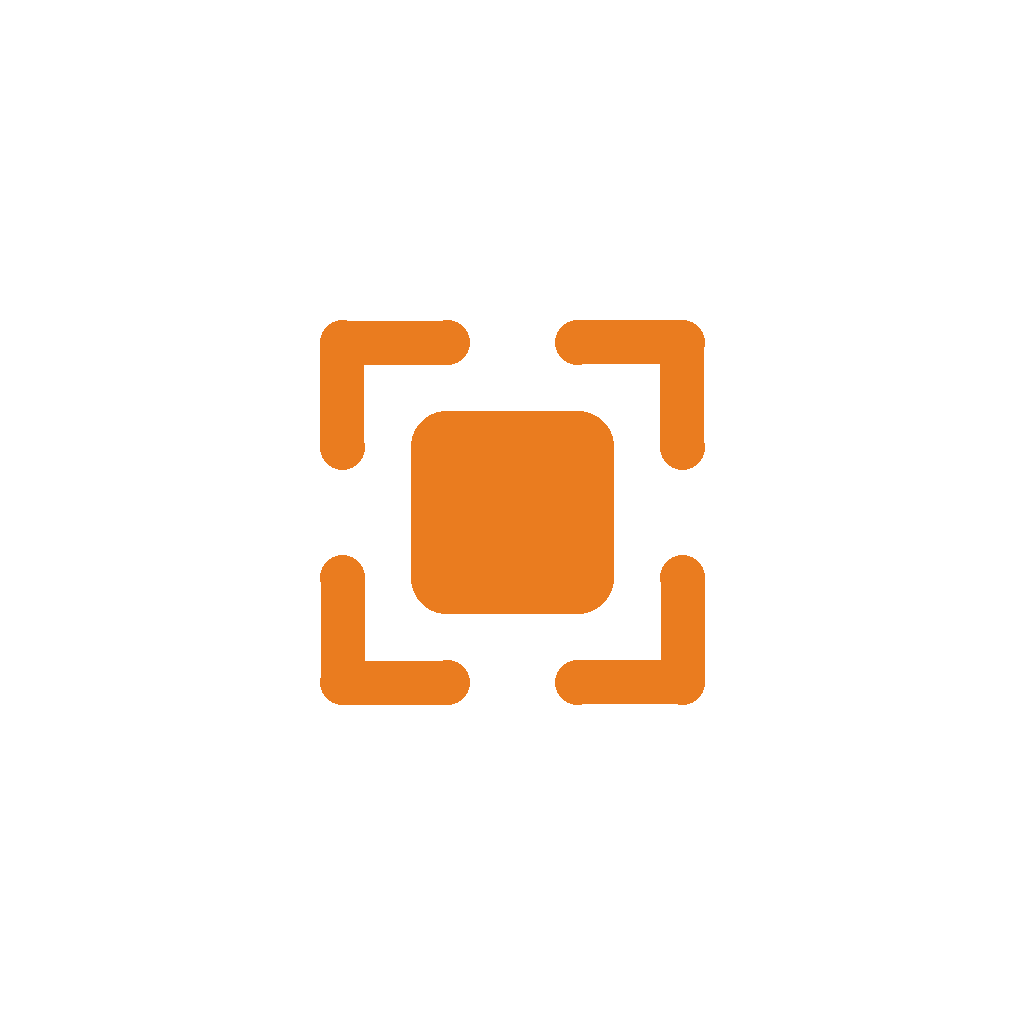
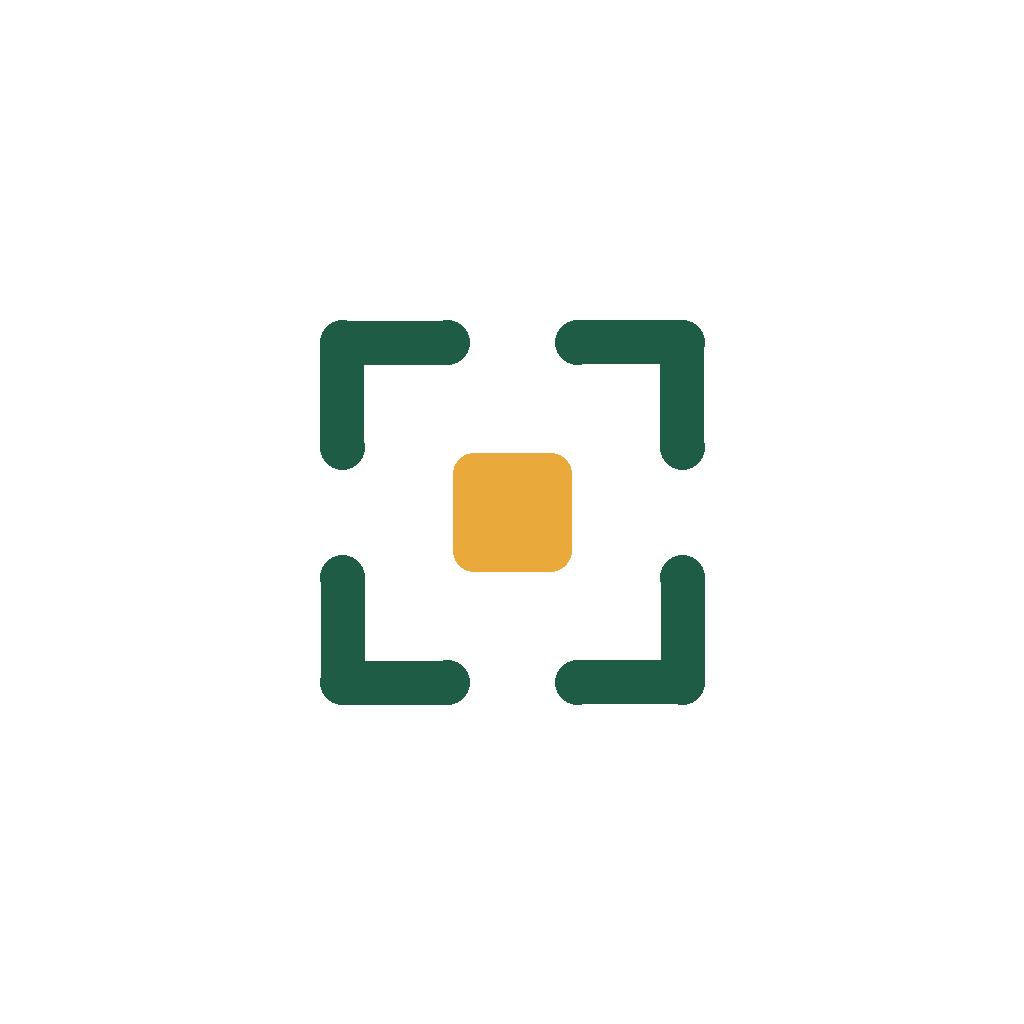
모바일: 앱 아이콘·스플래시를 새 로고(초록 모서리 + 노란 가운데)로 교체
design/generate_icon_assets.py를 새 색상과 Bricolage Grotesque 워드마크로
바꾸고(이제 macOS 전용 폰트 없이 어느 OS에서나 실행 가능) 에셋을 다시 생성.
app.json의 스플래시/적응형 아이콘 배경과 알림 색도 새 팔레트로 변경.
※ 아이콘·스플래시·알림 색은 네이티브 설정이라 다음 스토어 빌드부터 적용됨.

Claude-Session: https://claude.ai/code/session_011uiujypeg2eec9cwfwwvt9

Changed region(s): [[0.3125, 0.3125, 0.6875, 0.6875]]

diff --git a/mobile/design/generate_icon_assets.py b/mobile/design/generate_icon_assets.py
@@ -1,24 +1,32 @@
 #!/usr/bin/env python3
-"""Generates the Menuko Staff app icon + splash assets: option 1 (scan
-frame mark) + option A (cream background + scan mark + wordmark)."""
+"""Generates the Menuko Staff app icon + splash assets: the scan-frame mark
+on a sage background with the wordmark. 2026-09 "Market Green" palette
+(green corners, saffron center — same as the web BrandMark), wordmark in
+Bricolage Grotesque (bundled via @expo-google-fonts, so this runs on any OS:
+`cd mobile && python3 design/generate_icon_assets.py`)."""
 
 from PIL import Image, ImageDraw, ImageFont
 
-ORANGE = (234, 124, 31, 255)      # #ea7c1f
-CREAM = (255, 250, 243, 255)      # #fffaf3
-INK = (35, 31, 26, 255)           # #231f1a
-MUTED = (138, 124, 104, 255)      # #8a7c68
+GREEN = (31, 92, 69, 255)         # #1F5C45
+SAFFRON = (234, 169, 59, 255)     # #EAA93B
+CREAM = (242, 244, 238, 255)      # #F2F4EE (sage background, name kept)
+INK = (21, 38, 30, 255)           # #15261E
+MUTED = (85, 100, 91, 255)        # #55645B
 WHITE = (255, 255, 255, 255)
 TRANSPARENT = (0, 0, 0, 0)
 
-FONT_PATH = "/System/Library/Fonts/Avenir Next.ttc"
+FONT_DIR = "node_modules/@expo-google-fonts/bricolage-grotesque"
+FONT_FILES = {
+    "heavy": f"{FONT_DIR}/800ExtraBold/BricolageGrotesque_800ExtraBold.ttf",
+    "bold": f"{FONT_DIR}/700Bold/BricolageGrotesque_700Bold.ttf",
+}
 
 
-def font(index, size):
-    return ImageFont.truetype(FONT_PATH, size, index=index)
+def font(weight, size):
+    return ImageFont.truetype(FONT_FILES[weight], size)
 
 
-def draw_scan_frame(draw, cx, cy, half, stroke, color, center_dot=True):
+def draw_scan_frame(draw, cx, cy, half, stroke, color, center_dot=True, center_color=None):
     """Draws the 4-corner viewfinder bracket mark, centered at (cx, cy),
     with each bracket arm spanning `half` px and a `half*0.65` leg length."""
     leg = int(half * 0.62)
@@ -39,9 +47,9 @@ def draw_scan_frame(draw, cx, cy, half, stroke, color, center_dot=True):
             draw.ellipse([p[0] - r, p[1] - r, p[0] + r, p[1] + r], fill=color)
 
     if center_dot:
-        d = int(stroke * 2.3)
+        d = int(stroke * 1.35)  # matches the web BrandMark proportions
         draw.rounded_rectangle(
-            [cx - d, cy - d, cx + d, cy + d], radius=d * 0.35, fill=color
+            [cx - d, cy - d, cx + d, cy + d], radius=d * 0.35, fill=center_color or color
         )
 
 
@@ -49,7 +57,7 @@ def make_icon():
     size = 1024
     im = Image.new("RGB", (size, size), CREAM[:3])
     draw = ImageDraw.Draw(im)
-    draw_scan_frame(draw, size // 2, size // 2, half=210, stroke=52, color=ORANGE[:3])
+    draw_scan_frame(draw, size // 2, size // 2, half=210, stroke=52, color=GREEN[:3], center_color=SAFFRON[:3])
     im.save("assets/icon.png")
     print("wrote assets/icon.png")
 
@@ -60,7 +68,7 @@ def make_android_foreground():
     draw = ImageDraw.Draw(im)
     # Android adaptive icons get masked to a centered ~66% safe zone —
     # keep the mark smaller/more centered than the plain icon.
-    draw_scan_frame(draw, size // 2, size // 2, half=170, stroke=44, color=ORANGE)
+    draw_scan_frame(draw, size // 2, size // 2, half=170, stroke=44, color=GREEN, center_color=SAFFRON)
     im.save("assets/android-icon-foreground.png")
     print("wrote assets/android-icon-foreground.png")
 
@@ -85,7 +93,7 @@ def make_favicon():
     size = 256
     im = Image.new("RGB", (size, size), CREAM[:3])
     draw = ImageDraw.Draw(im)
-    draw_scan_frame(draw, size // 2, size // 2, half=54, stroke=13, color=ORANGE[:3])
+    draw_scan_frame(draw, size // 2, size // 2, half=54, stroke=13, color=GREEN[:3], center_color=SAFFRON[:3])
     im.save("assets/favicon.png")
     print("wrote assets/favicon.png")
 
@@ -98,10 +106,10 @@ def make_splash():
     draw = ImageDraw.Draw(im)
 
     mark_cy = 360
-    draw_scan_frame(draw, w // 2, mark_cy, half=150, stroke=38, color=ORANGE)
+    draw_scan_frame(draw, w // 2, mark_cy, half=150, stroke=38, color=GREEN, center_color=SAFFRON)
 
-    word_font = font(8, 100)  # Heavy
-    tag_font = font(0, 34)    # Bold
+    word_font = font("heavy", 104)
+    tag_font = font("bold", 34)
 
     text = "Menuko"
     bbox = draw.textbbox((0, 0), text, font=word_font)
